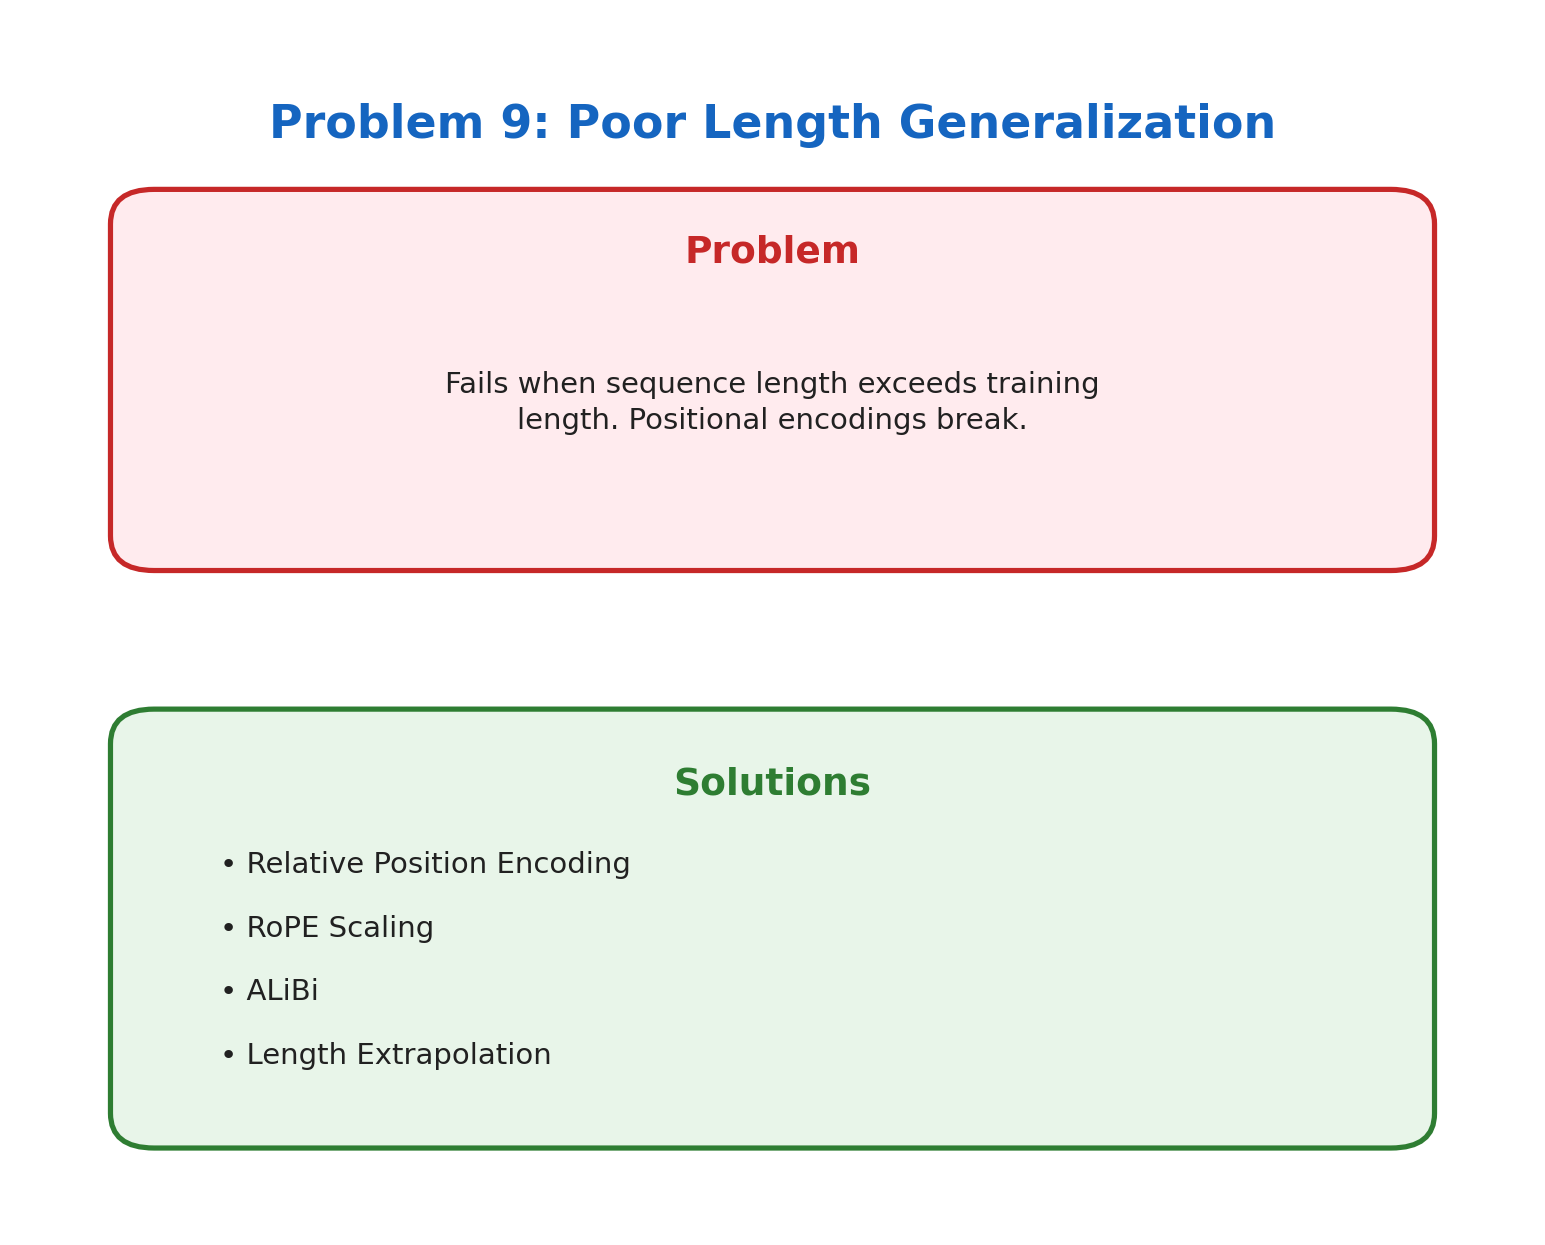
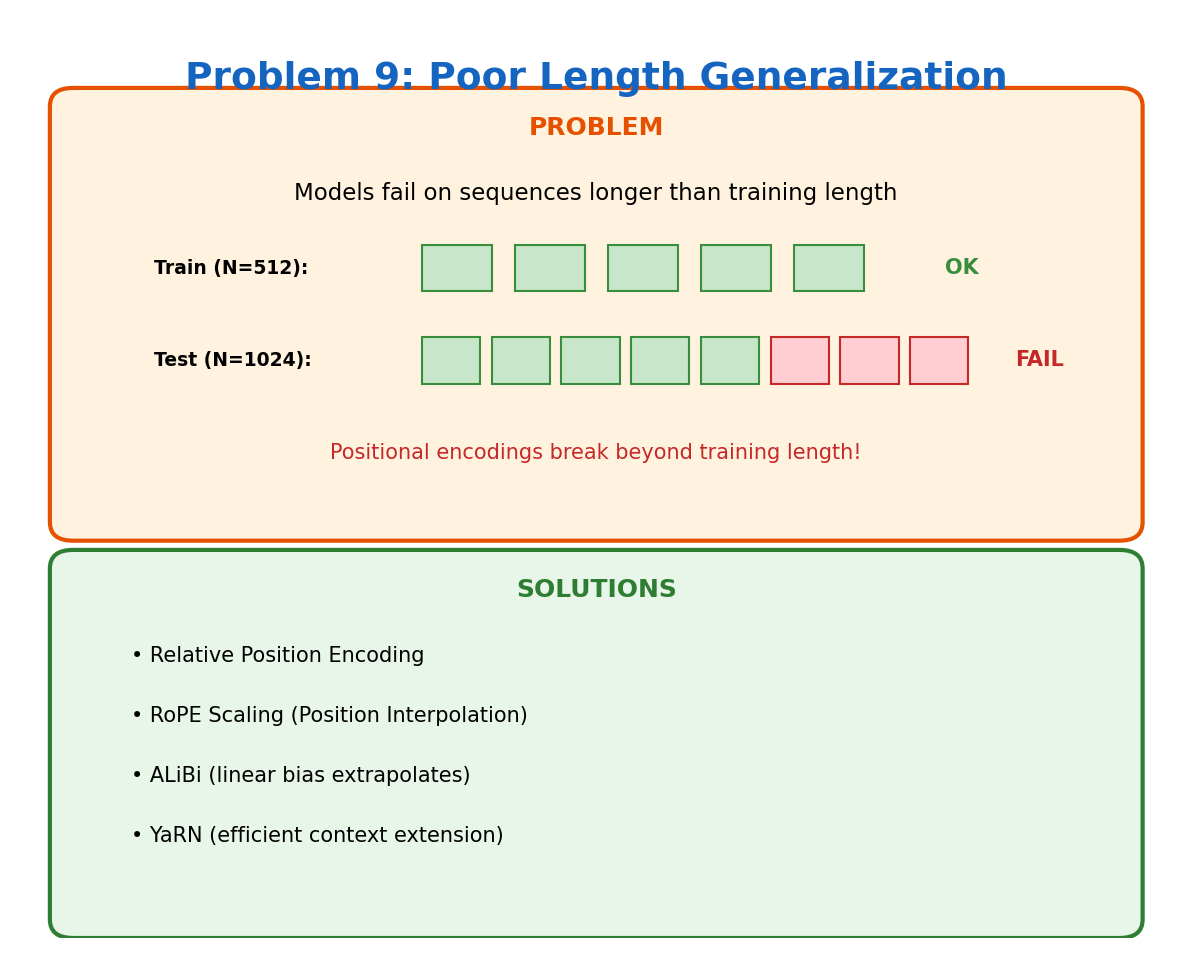
Update Problem 09: Length Generalization - human-readable README

diff --git a/09_length_generalization/README.md b/09_length_generalization/README.md
@@ -1,23 +1,55 @@
 # Problem 9: Poor Length Generalization
 
-## Problem
+[← Back to Main](../README.md) | [← Previous](../08_compute_cost/README.md) | [Next →](../10_training_instability/README.md)
 
-Fails when sequence length exceeds training length. Positional encodings break.
+---
 
-Models trained on sequences up to length N often fail catastrophically on sequences longer than N. Absolute positional encodings extrapolate poorly to unseen positions.
+![Problem 9](./problem.png)
 
-## Solutions
+## What's the Problem?
 
-| Solution | Description |
-|----------|-------------|
-| **Relative Position Encoding** | Encode relative distances instead of absolute positions |
-| **RoPE Scaling** | Scale rotary embeddings to handle longer sequences |
-| **ALiBi** | Linear attention biases that naturally extrapolate |
-| **Length Extrapolation** | Training techniques for better length generalization |
+Train a model on sequences up to 2048 tokens. Test it on 4096 tokens. Watch it fall apart.
 
-## References
+This isn't just "worse performance" — models can completely break down when they see positions they've never encountered during training. The output becomes nonsensical.
 
-- [ALiBi](https://arxiv.org/abs/2108.12409) - Train Short, Test Long
-- [RoPE Scaling](https://arxiv.org/abs/2306.15595) - Extending Context Window of LLMs via Position Interpolation
-- [YaRN](https://arxiv.org/abs/2309.00071) - Efficient Context Window Extension
+This matters because:
+- You can't always predict input length at deployment
+- Users want to paste long documents
+- Code files vary wildly in length
 
+## Why Does This Happen?
+
+The culprit is usually positional encoding. If you trained with learned position embeddings for positions 1-2048, what happens at position 3000? That embedding was never learned.
+
+Even sinusoidal encodings, which theoretically exist for all positions, behave differently at unseen positions because the model never learned how to use them.
+
+## The Core Issue
+
+Position encodings effectively tell the model "here's what position 500 looks like." But if the model only saw positions 1-2048 during training, it has no idea what to do with position 3000's encoding.
+
+## How Do We Fix It?
+
+| Approach | How It Helps |
+|----------|--------------|
+| **Relative Position Encoding** | Only encodes distances, not absolute positions — distance of 10 is the same whether it's pos 5→15 or 5000→5010 |
+| **RoPE Scaling** | Interpolate positions — treat position 4000 as if it were position 2000 |
+| **ALiBi** | Linear bias based on distance — naturally extrapolates |
+| **YaRN** | Smart interpolation that preserves high-frequency information |
+
+## ALiBi: The Simple Solution
+
+Instead of adding position embeddings, ALiBi just subtracts a penalty from attention scores based on distance:
+```
+attention_score = q·k - m × distance
+```
+
+No learned parameters for position at all. Distance of 100 works the same whether you're at the start or end of a 1M token sequence.
+
+## Learn More
+
+- [ALiBi Paper](https://arxiv.org/abs/2108.12409) — Train short, test long
+- [YaRN](https://arxiv.org/abs/2309.00071) — Better RoPE scaling
+
+---
+
+[← Back to Main](../README.md) | [← Previous](../08_compute_cost/README.md) | [Next →](../10_training_instability/README.md)
